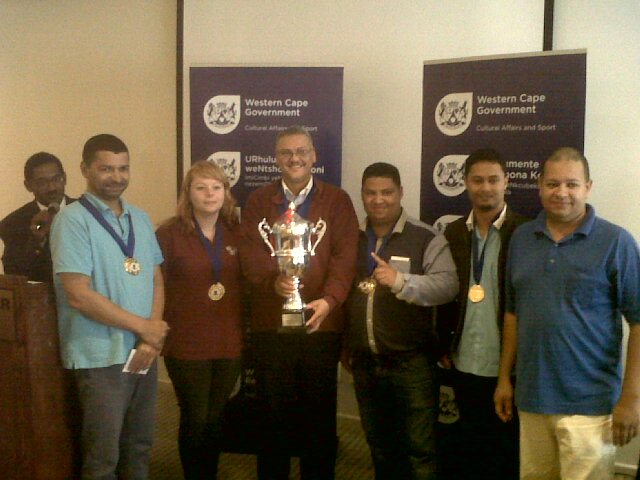
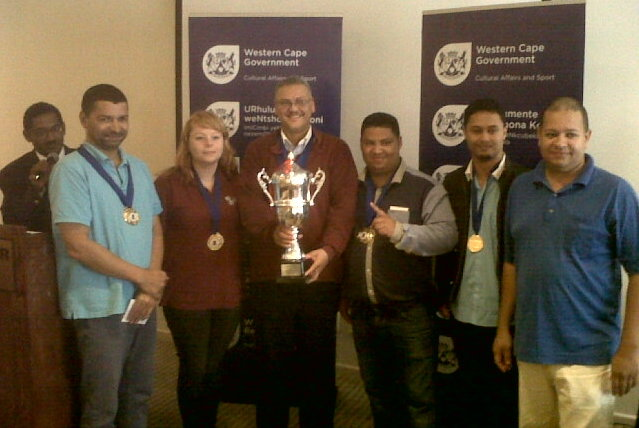
Fixing image dimensions.

diff --git a/gallery/index.html b/gallery/index.html
@@ -1134,31 +1134,31 @@
         <picture>
           <source
             
-              srcset="/images/gallery/2014-03-23_african_club_championship/IMG01913-20140323-1653_hu_48ae480064f35173.webp"
+              srcset="/images/gallery/2014-03-23_african_club_championship/IMG01913-20140323-1653_hu_a3da6b058754e066.webp"
             
             media="(max-width: 575px)" />
           <source
             
-              srcset="/images/gallery/2014-03-23_african_club_championship/IMG01913-20140323-1653_hu_d7ce7ef2d68fe51d.webp"
+              srcset="/images/gallery/2014-03-23_african_club_championship/IMG01913-20140323-1653_hu_7f69ba73a19370cd.webp"
             
             media="(max-width: 767px)" />
           <source
             
-              srcset="/images/gallery/2014-03-23_african_club_championship/IMG01913-20140323-1653_hu_b885f623dcd9a78d.webp"
+              srcset="/images/gallery/2014-03-23_african_club_championship/IMG01913-20140323-1653_hu_4d0dbd81cf7dbd00.webp"
             
             media="(max-width: 991px)" />
           <source
             
-              srcset="/images/gallery/2014-03-23_african_club_championship/IMG01913-20140323-1653_hu_bb33684e7f357590.webp"
+              srcset="/images/gallery/2014-03-23_african_club_championship/IMG01913-20140323-1653_hu_681a81af6a1aae5e.webp"
              />
           <img
             
               loading="lazy" decoding="async"
-              src="/images/gallery/2014-03-23_african_club_championship/IMG01913-20140323-1653_hu_5294491a09e9b12c.jpg"
+              src="/images/gallery/2014-03-23_african_club_championship/IMG01913-20140323-1653_hu_5ec1ba0eb3c97e46.jpg"
             class=" mb-6 w-full rounded img"
             alt="2014 AfriClub Champs"
-            width="640"
-            height="480" />
+            width="639"
+            height="428" />
         </picture>
       
       
@@ -1384,6 +1384,8 @@
       <p>
           &copy;2025 Steinitz Chess Club
           
+        <p>This page was last modified on 31 Aug 2025</p>
+        
       </p>
     </div>
   </div>

diff --git a/gallery/2014-african-club-championship/index.html b/gallery/2014-african-club-championship/index.html
@@ -169,8 +169,8 @@
           content="summary_large_image" />
       
       
-      <meta property="og:image:width" content="640" />
-      <meta property="og:image:height" content="480" />
+      <meta property="og:image:width" content="639" />
+      <meta property="og:image:height" content="428" />
     
 
 
@@ -3672,11 +3672,11 @@
               class="glightbox">
               <img
                 loading="lazy"
-                src="/images/gallery/2014-03-23_african_club_championship/IMG01913-20140323-1653_hu_8867a1b0529ab80f.jpg"
+                src="/images/gallery/2014-03-23_african_club_championship/IMG01913-20140323-1653_hu_eee57b15f9acac7d.jpg"
                 class="img"
                 style="margin: 0;"
                 alt="IMG01913-20140323-1653.jpg"
-                onerror="this.onerror='null';this.src='\/images\/gallery\/2014-03-23_african_club_championship\/IMG01913-20140323-1653_hu_8867a1b0529ab80f.jpg'" />
+                onerror="this.onerror='null';this.src='\/images\/gallery\/2014-03-23_african_club_championship\/IMG01913-20140323-1653_hu_eee57b15f9acac7d.jpg'" />
             </a>
           
         </div>
@@ -3854,6 +3854,10 @@
             </a>
           
         </div>
+      
+    
+      
+      
       
     
     
@@ -4048,6 +4052,8 @@
       <p>
           &copy;2025 Steinitz Chess Club
           
+        <p>This page was last modified on 31 Aug 2025</p>
+        
       </p>
     </div>
   </div>

diff --git a/authors/kenneth-willenberg/index.html b/authors/kenneth-willenberg/index.html
@@ -1293,7 +1293,7 @@ On a National Level I am proud to still hold the record for most consecutive SA 
       <p>
           &copy;2025 Steinitz Chess Club
           
-        <p>This page was last modified on 30 Aug 2025</p>
+        <p>This page was last modified on 31 Aug 2025</p>
         
       </p>
     </div>

diff --git a/blog/reflections-on-2019-chess-western-province-league/index.html b/blog/reflections-on-2019-chess-western-province-league/index.html
@@ -1627,6 +1627,8 @@ In <strong>2018</strong>, our league campaign was just as steady — <strong>11 
       <p>
           &copy;2025 Steinitz Chess Club
           
+        <p>This page was last modified on 31 Aug 2025</p>
+        
       </p>
     </div>
   </div>

diff --git a/leaders/andrew-talmarkes/index.html b/leaders/andrew-talmarkes/index.html
@@ -1284,6 +1284,8 @@ Awarded the Community Builder Award in 2013 for his work on Mitchell’s Plain C
       <p>
           &copy;2025 Steinitz Chess Club
           
+        <p>This page was last modified on 31 Aug 2025</p>
+        
       </p>
     </div>
   </div>

diff --git a/leaders/mark-lewis/index.html b/leaders/mark-lewis/index.html
@@ -1284,6 +1284,8 @@ In addition to his administrative and coaching roles, Lewis remains active as a 
       <p>
           &copy;2025 Steinitz Chess Club
           
+        <p>This page was last modified on 31 Aug 2025</p>
+        
       </p>
     </div>
   </div>

diff --git a/leaders/roland-willenberg/index.html b/leaders/roland-willenberg/index.html
@@ -1283,6 +1283,8 @@ Roland is also known as the father and early mentor of his sons, Kenny and Craig
       <p>
           &copy;2025 Steinitz Chess Club
           
+        <p>This page was last modified on 31 Aug 2025</p>
+        
       </p>
     </div>
   </div>

diff --git a/leaders/shaun-willenberg/index.html b/leaders/shaun-willenberg/index.html
@@ -1264,6 +1264,8 @@ Shaun&rsquo;s contributions have been instrumental in the club&rsquo;s developme
       <p>
           &copy;2025 Steinitz Chess Club
           
+        <p>This page was last modified on 31 Aug 2025</p>
+        
       </p>
     </div>
   </div>

diff --git a/about/index.html b/about/index.html
@@ -1258,7 +1258,7 @@
       <p>
           &copy;2025 Steinitz Chess Club
           
-        <p>This page was last modified on 30 Aug 2025</p>
+        <p>This page was last modified on 31 Aug 2025</p>
         
       </p>
     </div>

diff --git a/index.html b/index.html
@@ -1719,7 +1719,7 @@
       <p>
           &copy;2025 Steinitz Chess Club
           
-        <p>This page was last modified on 30 Aug 2025</p>
+        <p>This page was last modified on 31 Aug 2025</p>
         
       </p>
     </div>

diff --git a/authors/lyndon-bouah/index.html b/authors/lyndon-bouah/index.html
@@ -1446,6 +1446,8 @@
       <p>
           &copy;2025 Steinitz Chess Club
           
+        <p>This page was last modified on 31 Aug 2025</p>
+        
       </p>
     </div>
   </div>

diff --git a/gallery/2025-ctcf-club-league/index.html b/gallery/2025-ctcf-club-league/index.html
@@ -5909,6 +5909,8 @@
       <p>
           &copy;2025 Steinitz Chess Club
           
+        <p>This page was last modified on 31 Aug 2025</p>
+        
       </p>
     </div>
   </div>
